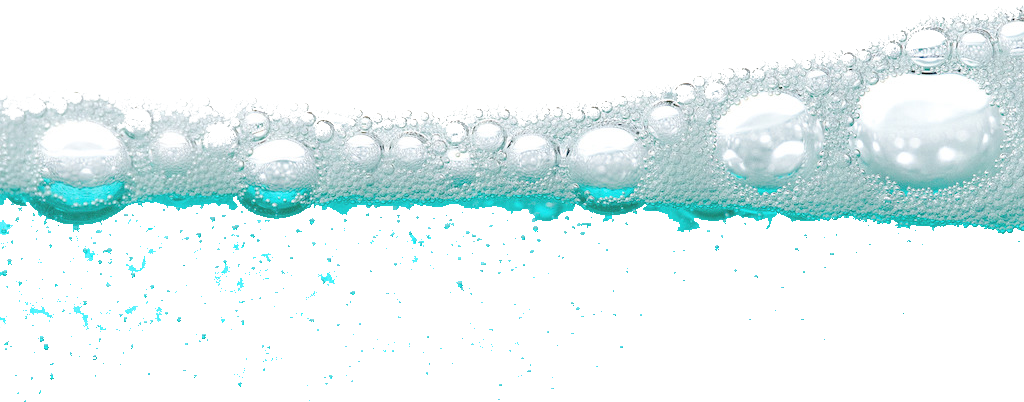
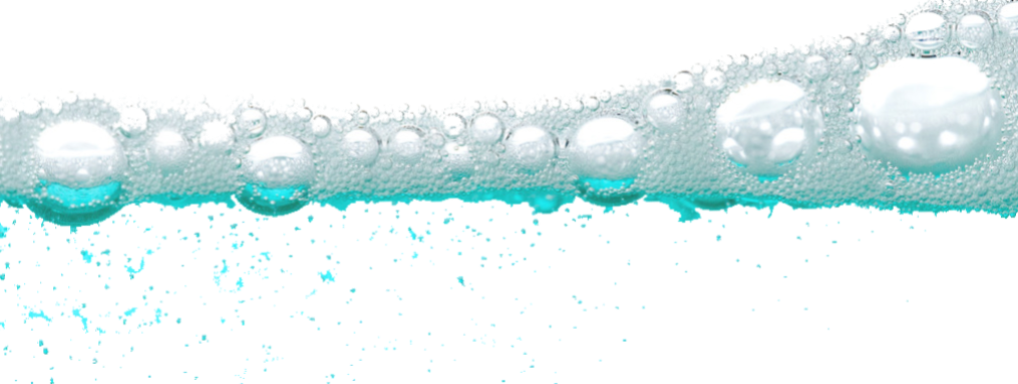
media styles

diff --git a/app/mainapp/templates/mainapp/index.html b/app/mainapp/templates/mainapp/index.html
@@ -28,7 +28,8 @@
                         Гель для стирки универсальный, 3 л
                     </p>
                     <a href="{% url 'mainapp:first' %}" class="btn btn-secondary py-md-3 px-md-5 mb-4">Подробнее</a>
-                    <a href="https://www.wildberries.ru/catalog/109375681/detail.aspx?targetUrl=LC&size=169689833" target="_blank"
+                    <a href="https://www.wildberries.ru/catalog/109375681/detail.aspx?targetUrl=LC&size=169689833"
+                       target="_blank"
                        class="btn btn-primary py-md-3 px-md-5">Купить</a>
                 </div>
             </div>
@@ -40,7 +41,8 @@
                         Гель для стирки цветного белья, 3 л
                     </p>
                     <a href="{% url 'mainapp:second' %}" class="btn btn-secondary py-md-3 px-md-5 mb-4">Подробнее</a>
-                    <a href="https://www.wildberries.ru/catalog/109375681/detail.aspx?targetUrl=LC&size=169689833" target="_blank"
+                    <a href="https://www.wildberries.ru/catalog/109375681/detail.aspx?targetUrl=LC&size=169689833"
+                       target="_blank"
                        class="btn btn-primary py-md-3 px-md-5">Купить</a>
                 </div>
             </div>
@@ -52,7 +54,8 @@
                         Гель для стирки черного белья, 3 л
                     </p>
                     <a href="{% url 'mainapp:third' %}" class="btn btn-secondary py-md-3 px-md-5 mb-4">Подробнее</a>
-                    <a href="https://www.wildberries.ru/catalog/109375681/detail.aspx?targetUrl=LC&size=169689833" target="_blank"
+                    <a href="https://www.wildberries.ru/catalog/109375681/detail.aspx?targetUrl=LC&size=169689833"
+                       target="_blank"
                        class="btn btn-primary py-md-3 px-md-5">Купить</a>
                 </div>
             </div>
@@ -62,55 +65,54 @@
 <!-- Services End -->
 
 
-    <!-- Facts Start -->
-    <div class="container-fluid bg-primary facts py-5">
-        <div class="container py-5">
-            <div class="row gx-5 gy-4">
-                <div class="col-lg-3 col-md-6">
-                    <div class="d-flex">
-                        <div class="bg-secondary rounded-circle d-flex align-items-center justify-content-center mb-3" style="width: 50px; height: 50px;">
-                            <i class="fa fa-info-circle fs-4 text-white"></i>
-                        </div>
-                        <div class="ps-4 mt-3p">
-                            <h3 class="text-white"><a href="{% url 'mainapp:about' %}">О нас</a></h3>
-                        </div>
+<!-- Facts Start -->
+<div class="container-fluid bg-primary facts py-5">
+    <div class="container py-5">
+        <div class="row gx-5 gy-4">
+            <div class="col-lg-3 col-md-6">
+                <div class="d-flex">
+                    <div class="bg-secondary rounded-circle d-flex align-items-center justify-content-center mb-3 circle-fix">
+                        <i class="fa fa-info-circle fs-4 text-white"></i>
+                    </div>
+                    <div class="ps-4 mt-3p">
+                        <h3 class="text-white"><a href="{% url 'mainapp:about' %}">О нас</a></h3>
                     </div>
                 </div>
-                <div class="col-lg-3 col-md-6">
-                    <div class="d-flex">
-                        <div class="bg-secondary rounded-circle d-flex align-items-center justify-content-center mb-3" style="width: 50px; height: 50px;">
-                            <i class="fa fa-newspaper fs-4 text-white"></i>
-                        </div>
-                        <div class="ps-4 mt-3p">
-                            <h3 class="text-white"><a href="{% url 'mainapp:news' %}">Наши новости</a></h3>
-                        </div>
+            </div>
+            <div class="col-lg-3 col-md-6">
+                <div class="d-flex">
+                    <div class="bg-secondary rounded-circle d-flex align-items-center justify-content-center mb-3 circle-fix">
+                        <i class="fa fa-newspaper fs-4 text-white"></i>
+                    </div>
+                    <div class="ps-4 mt-3p">
+                        <h3 class="text-white"><a href="{% url 'mainapp:news' %}">Наши новости</a></h3>
                     </div>
                 </div>
-                <div class="col-lg-3 col-md-6">
-                    <div class="d-flex">
-                        <div class="bg-secondary rounded-circle d-flex align-items-center justify-content-center mb-3" style="width: 50px; height: 50px;">
-                            <i class="fa fa-sticky-note fs-4 text-white"></i>
+            </div>
+            <div class="col-lg-3 col-md-6">
+                <div class="d-flex">
+                    <div class="bg-secondary rounded-circle d-flex align-items-center justify-content-center mb-3 circle-fix">
+                        <i class="fa fa-sticky-note fs-4 text-white"></i>
+                    </div>
+                    <div class="ps-4 mt-3p">
+                        <h3 class="text-white"><a href="{% url 'mainapp:docs' %}">Документы</a></h3>
+                    </div>
+                </div>
+            </div>
+            <div class="col-lg-3 col-md-6">
+                <div class="d-flex">
+                    <div class="bg-secondary rounded-circle d-flex align-items-center justify-content-center mb-3 circle-fix">
+                        <i class="fa fa-compass fs-4 text-white"></i>
+                    </div>
+                    <div class="ps-4 mt-3p">
+                        <h3 class="text-white"><a href="{% url 'mainapp:contacts' %}">Контакты</a></h3>
 
-                        </div>
-                        <div class="ps-4 mt-3p">
-                            <h3 class="text-white"><a href="{% url 'mainapp:docs' %}">Документы</a></h3>
-                        </div>
-                    </div>
-                </div>
-                <div class="col-lg-3 col-md-6">
-                    <div class="d-flex">
-                        <div class="bg-secondary rounded-circle d-flex align-items-center justify-content-center mb-3" style="width: 50px; height: 50px;">
-                            <i class="fa fa-compass fs-4 text-white"></i>
-                        </div>
-                        <div class="ps-4 mt-3p">
-                            <h3 class="text-white"><a href="{% url 'mainapp:contacts' %}">Контакты</a></h3>
-
-                        </div>
                     </div>
                 </div>
             </div>
         </div>
     </div>
-    <!-- Facts End -->
+</div>
+<!-- Facts End -->
 
 {% endblock %}

diff --git a/app/mainapp/templates/mainapp/include/inc_menu.html b/app/mainapp/templates/mainapp/include/inc_menu.html
@@ -11,8 +11,8 @@
             <div class="col-lg-6">
                 <div class="d-flex align-items-center justify-content-center">
                     <a href="{% url 'mainapp:index' %}" class="navbar-brand ms-lg-5">
-                        <h1 class="m-0 display-4 text-primary">
-                            <img src="{% static 'img/shop-logo.png' %}" style="width: 41px; padding: 10px 0 17px;">
+                        <h1 class="m-0 display-4 text-primary name-text">
+                            <img src="{% static 'img/shop-logo.png' %}" class="wash-mash">
                             <span class="text-secondary">EURASIA</span>
                             MEGASTAR
                         </h1>
@@ -20,14 +20,20 @@
                 </div>
             </div>
             <div class="col-lg-3">
-                <div class="d-flex align-items-center justify-content-end">
-                    <a class="btn btn-square rounded-circle me-2" href="https://www.wildberries.ru/seller/1123159" target="_blank">
-                        <img src="{% static 'img/ozon__.svg' %}" width="40" style="opacity: 0.5;">
+                <div class="d-flex align-items-center justify-content-around">
+                    <a class="btn btn-square rounded-circle me-2" href="#" target="_blank">
+                        <img src="{% static 'img/cart.png' %}" class="square-img">
+                    </a>
+                    <div>
+                        <a class="btn btn-square rounded-circle me-2" href="https://www.wildberries.ru/seller/1123159" target="_blank">
+                            <img src="{% static 'img/ozon__.svg' %}" class="square-img" style="opacity: 0.5;">
 
-                    </a>
-                    <a class="btn btn-square rounded-circle me-2" href="https://www.wildberries.ru/seller/1123159" target="_blank">
-                        <img src="{% static 'img/wb.png' %}" width="40" style="opacity: 0.5;">
-                    </a>
+                        </a>
+                        <a class="btn btn-square rounded-circle me-2" href="https://www.wildberries.ru/seller/1123159" target="_blank">
+                            <img src="{% static 'img/wb.png' %}" class="square-img" style="opacity: 0.5;">
+                        </a>
+                    </div>
+
                 </div>
             </div>
         </div>

diff --git a/app/static/css/style.css b/app/static/css/style.css
@@ -309,10 +309,13 @@
     border-color: #313a89;
 }
 .btn-primary:active,
-.btn-primary:hover
+.btn-primary:hover,
+.btn-primary:focus,
+.btn-secondary:focus
  {
-    background-color: #9caac2;
-    border-color: #9caac2;
+    background-color: #bcd29d;
+    border-color: #bcd29d;
+    box-shadow: 0 0 0 0;
 }
 .btn-secondary {
     background-color: #8c99a5;
@@ -323,6 +326,9 @@
  {
     background-color: #bcd29d;
     border-color: #bcd29d;
+}
+.btn:focus{
+    box-shadow: 0 0 0 0;
 }
 .border-secondary{
     border-color: #738e89 !important;
@@ -341,9 +347,6 @@
 }
 body{
     background-image: linear-gradient(rgba(255,255,255,0.8), rgba(255,255,255,0.8)), url(/static/img/bubbles.png);
-}
-.text-white a{
-    color:
 }
 .mt-3p{
     margin-top: 5px;
@@ -371,7 +374,7 @@ body{
     bottom: 0;
     object-fit: contain;
     max-width: 100%;
-    width: auto;
+    width: 100%;
     height: auto;
     z-index: -9999;
 }
@@ -397,6 +400,48 @@ body{
 }
 .mail-menu{
     color: #313a89;
+}
+.wash-mash{
+    width: 41px;
+    padding: 10px 0 17px;
+}
+.square-img{
+    width: 40px;
+}
+.circle-fix{
+    width: 50px;
+    height: 50px;
+}
+@media (max-width: 1440px) and (min-width: 1024px){
+    .mail-menu{
+        font-size: 20px;
+    }
+    .fs-1 {
+        font-size: 24px !important;
+    }
+    .name-text{
+        font-size: 28px;
+    }
+    .wash-mash{
+        width: 26px;
+    }
+    .square-img{
+        width: 30px;
+    }
+    .overlay p{
+        font-size: 68px;
+    }
+    .circle-fix{
+        width: 30px;
+        height: 30px;
+        margin-top: 10px;
+    }
+    .fs-4 {
+        font-size: 18px !important;
+    }
+    .text-white a{
+        font-size: 20px;
+    }
 }
 .wrapper-page{
     min-height: 100vh;

diff --git a/app/mainapp/templates/mainapp/about.html b/app/mainapp/templates/mainapp/about.html
@@ -9,7 +9,7 @@
                 <div class="start-banner">
                     <h1 class="display-1 text-white mb-md-4 pt-5">О нас</h1>
                     <a href="{% url 'mainapp:index' %}" class="btn btn-primary py-md-3 px-md-5 me-3">Главная</a>
-<!--                    <a href="{% url 'mainapp:about' %}"class="btn btn-secondary py-md-3 px-md-5">О нас</a>-->
+                    <a href="{% url 'mainapp:contacts' %}"class="btn btn-secondary py-md-3 px-md-5">Контакты</a>
                 </div>
             </div>
         </div>
@@ -57,7 +57,7 @@
                         наилучшим ценам. Мы щепетильны в выборе товаров. Мы продаем то, чем пользуемся сами.
                     </p>
 </div>
-                    <img class="img-fluid" src="{% static 'img/about_picture.png' %}" alt="" style="margin-top: -25%;">
+                    <img class="img-fluid" src="{% static 'img/about_picture.png' %}" alt="" style="margin-top: -24%;">
 
             </div>
             <div class="col-lg-3">
